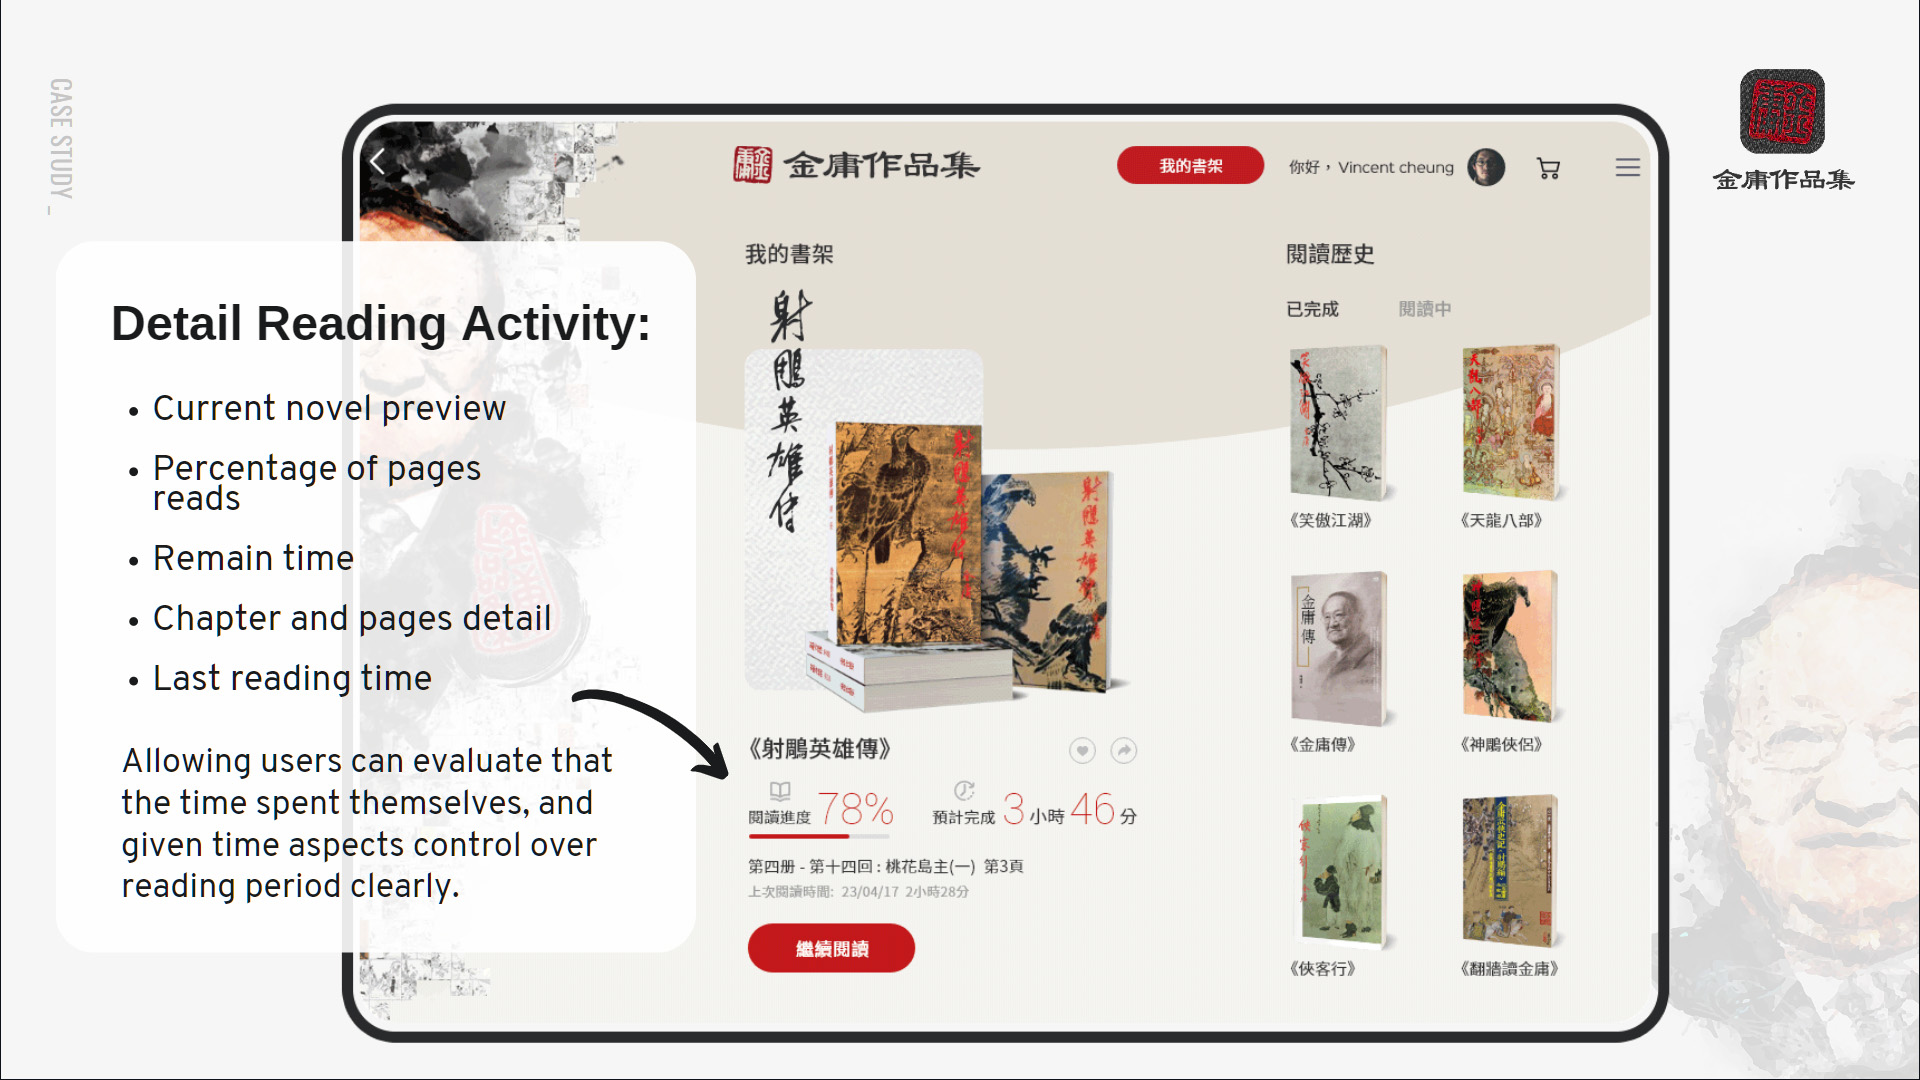
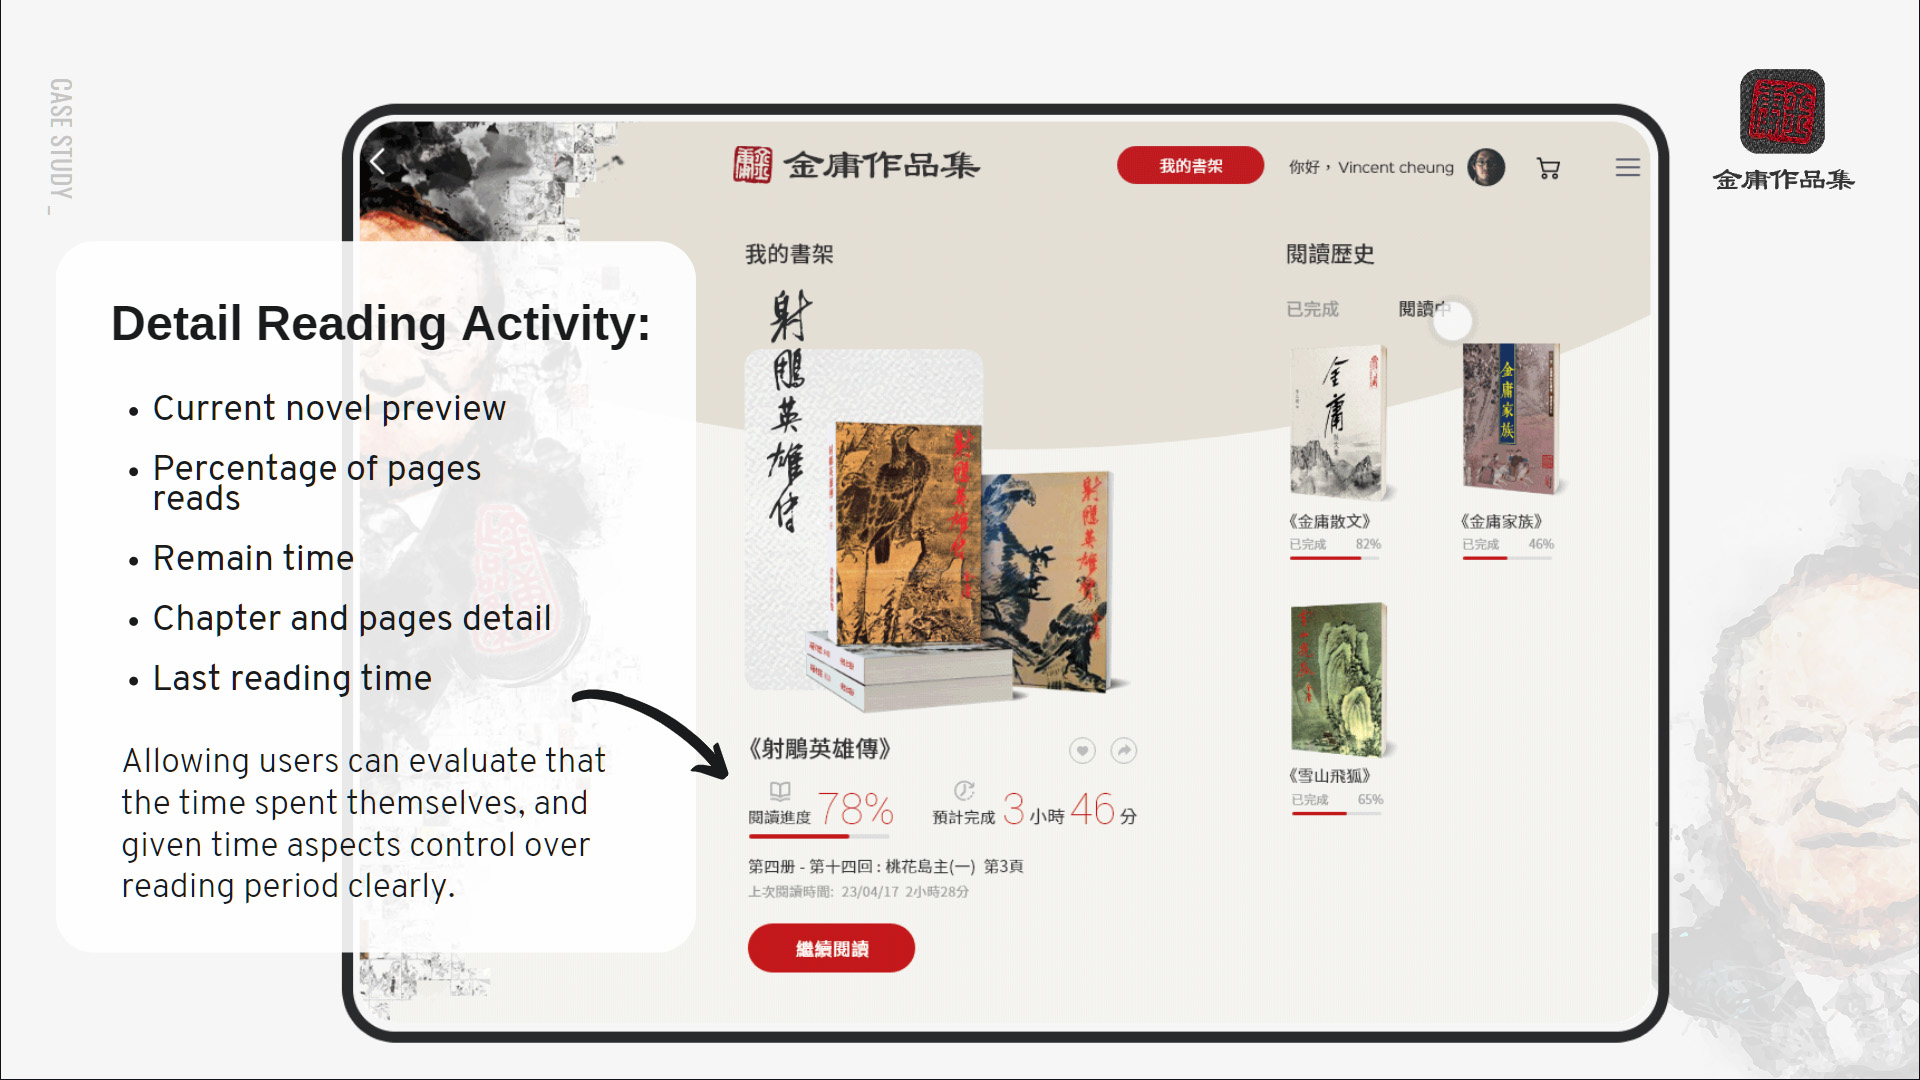
2109_01

Changed region(s): [[0.6562, 0.275, 0.8125, 0.9167], [0.0625, 0.6722, 0.3125, 0.8556]]

diff --git a/project/jy_reader.html b/project/jy_reader.html
@@ -558,7 +558,7 @@
       <p class="observable h1 spacing-title">The reimagined Jin-Yong’s Themed-Bookstore</p>
       <p class="observable body spacing-small">A Themed-Bookstore brings freshness landing experience with infinite-looping posterboard. I deliberately martial arts illustration as entry page to relate to their respective section, which can also allows to keep readers interested through the entire navigation that evoke emotions immediately make it more delightful experience.</p>
 
-      <p class="observable body spacing-large">In "Bookstore" has a relevant books in different genres where divided into 3 category that shows :《細讀巨匠》 Jin-Yong’s Novels Collections, 《江湖以外》 Novels reference book and 《論盡金學》 Jin Studies research book. <!--Display for specific offer info and published collection etc.--> <span class="material-icons" style="font-size:15px; top: 2px; padding-right: 4px; padding-left: 2px;">open_in_new</span> <a class="image-popup-fit-width underlined" title="Click on image to enlarge/reduce it"  href="../images/projects/jinyong_bookstore/bookstore.gif">Detail</a></p>
+      <p class="observable body spacing-large">In "Bookstore" page has a relevant books in different genres where divided into 3 category that shows :《細讀巨匠》 Jin-Yong’s Novels Collections, 《江湖以外》 Novels reference book and 《論盡金學》 Jin Studies research book. <!--Display for specific offer info and published collection etc.--> <span class="material-icons" style="font-size:15px; top: 2px; padding-right: 4px; padding-left: 2px;">open_in_new</span> <a class="image-popup-fit-width underlined" title="Click on image to enlarge/reduce it"  href="../images/projects/jinyong_bookstore/bookstore.gif">Detail</a></p>
     </div>
 
 
@@ -569,22 +569,22 @@
     </div>
 
     <div class="copy-width spacing-small">
-      <p class="observable h1 spacing-title">Reinforced in-App reading experience</p>
-      <p class="observable body spacing-small">In "My Bookshelf" where shows overview of novel. With status bar in current novel section. User can keep track novel reading status that contain: Current reading, Evaluate time, Percentage of pages reads, Last reading time, and Chapter/pages detail. Those data updated instanly when done reading. Allowing users can evaluate that the time spent themselves, and given time aspects control over reading period clearly. <span class="material-icons" style="font-size:15px; top: 2px; padding-right: 4px; padding-left: 2px;">open_in_new</span> <a class="image-popup-fit-width underlined" title="Click on image to enlarge/reduce it"  href="../images/projects/jinyong_bookstore/mybookshelf.jpg">Detail</a></p>
+      <p class="observable h1 spacing-title">Reinforced in-App reading feature</p>
+      <p class="observable body spacing-sub-title">In "My Bookshelf" where shows overview of novel. With status bar in current novel section. User can keep track novel reading status that contain: Current reading, Evaluate time, Percentage of pages reads, Last reading time, and Chapter/pages detail. Those data updated instanly when done reading. Allowing users can evaluate that the time spent themselves, and given time aspects control over reading period clearly. <span class="material-icons" style="font-size:15px; top: 2px; padding-right: 4px; padding-left: 2px;">open_in_new</span> <a class="image-popup-fit-width underlined" title="Click on image to enlarge/reduce it"  href="../images/projects/jinyong_bookstore/mybookshelf.jpg">Detail</a></p>
 
 
-      <p class="observable body spacing-small">Within in-App reader, User able to open user preference setting panel by top right button. With swiping quick access button, its direct jump to page. Moreover, There are variety of option which is customize option to suit users reading behavior, such as font face, size, colors, night mode, page turn interactions and bookmarks with auto-saving the currently etc. <span class="material-icons" style="font-size:15px; top: 2px; padding-right: 4px; padding-left: 2px;">open_in_new</span> <a class="image-popup-fit-width underlined" title="Click on image to enlarge/reduce it"  href="../images/projects/jinyong_bookstore/ups.jpg">Detail</a></p>
+      <p class="observable body spacing-medium">Within in-App reader, User able to open user preference setting panel by top right button. With swiping quick access button, its direct jump to page. Moreover, There are variety of option which is customize option to suit users reading behavior, such as font face, size, colors, night mode, page turn interactions and bookmarks with auto-saving the currently etc. <span class="material-icons" style="font-size:15px; top: 2px; padding-right: 4px; padding-left: 2px;">open_in_new</span> <a class="image-popup-fit-width underlined" title="Click on image to enlarge/reduce it"  href="../images/projects/jinyong_bookstore/ups.jpg">Detail</a></p>
 
       <!-- Demo add Timer or remain Time info on panel, Remain time chi name change? -->
 
-
+      <p class="observable h1 spacing-title">Tablet reading experience </p>
       <p class="observable body spacing-small">As prototyping shown, the Tablet-first approach was smoothly and comfortable reading with wide screen, which is feel less cramped as well as better for novels reads. The novels illustrations between the chapter was well presented that keep feel "Real" same as printed version. <span class="material-icons" style="font-size:15px; top: 2px; padding-right: 4px; padding-left: 2px;">open_in_new</span> <a class="image-popup-fit-width underlined" title="Click on image to enlarge/reduce it"  href="../images/projects/jinyong_bookstore/reader.gif">Detail</a></p>
     </div>
 
 
     <div class="copy-width spacing-large">
-      <p class="observable h1 spacing-title">Suitable color scheme help for eye strain</p>
-      <p class="observable body spacing-small">"Eye protect mode" as new color scheme with a specific for reading long period. A background color value as #f4f4ec and gray font as #333, with a bit emboss paper texture same as printed version. This combination of color scheme was give out a soft and natural. It would have been useful to less of a stimulating effect on our eyes. That provides natural contrast and readability for body text. <span class="material-icons" style="font-size:15px; top: 2px; padding-right: 4px; padding-left: 2px;">open_in_new</span> <a class="image-popup-fit-width underlined" title="Click on image to enlarge/reduce it"  href="../images/projects/jinyong_bookstore/color_scheme.png">Detail</a></p>
+      <p class="observable h1 spacing-title">Suitable color scheme for long period reads</p>
+      <p class="observable body spacing-small">"Eye protect mode" as new featue with a specific for reading long period. A background color value as #f4f4ec and gray font as #333, with a bit emboss paper texture same as printed version. This combination of color scheme was give out a soft and natural. It would have been useful to less of a stimulating effect on our eyes. That provides natural contrast and readability for body text. <span class="material-icons" style="font-size:15px; top: 2px; padding-right: 4px; padding-left: 2px;">open_in_new</span> <a class="image-popup-fit-width underlined" title="Click on image to enlarge/reduce it"  href="../images/projects/jinyong_bookstore/color_scheme.png">Detail</a></p>
 
       <p class="observable body spacing-medium">Credit: <i>The color scheme according to <a href="https://www.cs.cmu.edu/~jbigham/pubs/pdfs/2017/colors.pdf" target="_blank" class="observable underlined" href="">"Luz Rello </a>- Bigham Human-Computer Interaction Institute & Carnegie Mellon University"</i></p>
 
